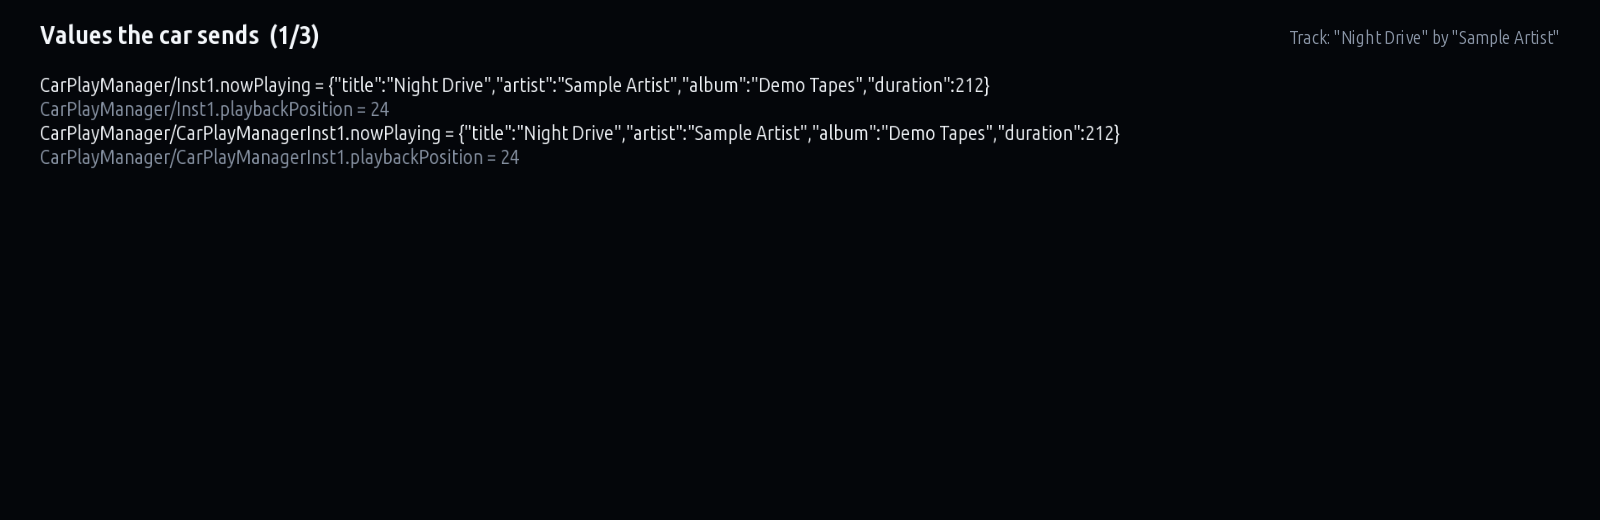
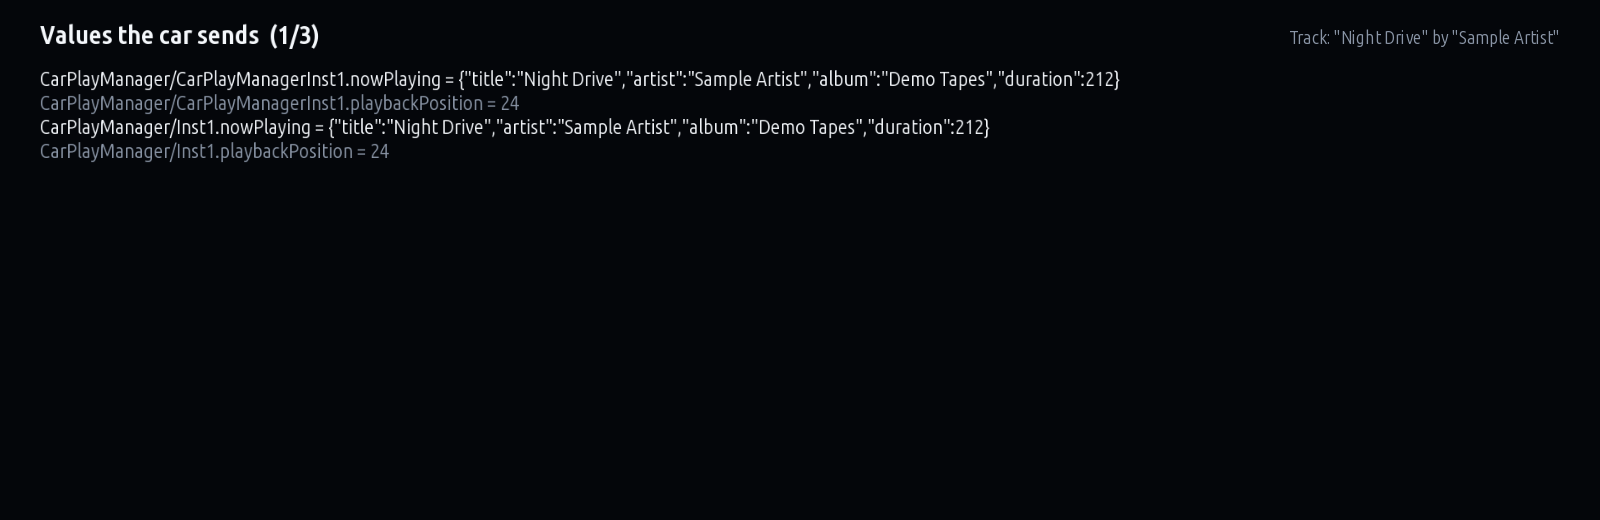
Car Lyrics 0.2.2: Probe in the main screen, every media source, BMW metadata lists
On a car (G22, iDrive 7) the Probe screen and the main screen drew over each other and flashed:
Probe is now a view of the main screen. The probe showed MediaPlayer's AndroidAutoProjected
instance only; up to 12 instances are now watched, CarPlay and Bluetooth first. Metadata sent as
[{ type, value }] lists is read, currentItemTime's elapsed and total give the position and the
duration, and the previous / next items and playlists are never taken for the song playing.

Claude-Session: https://claude.ai/code/session_01G6C1HsKBPawkNXsB1LtfuR

Changed region(s): [[0.0312, 0.1231, 0.7188, 0.3385]]

diff --git a/apps/aref_carlyrics/main.js b/apps/aref_carlyrics/main.js
@@ -21,7 +21,7 @@ const LyricsLib = require('./lyrics');
 const http = require('./http');
 const HW = require('./kit/homewidget');
 
-const VERSION = '0.2.1';
+const VERSION = '0.2.2';
 const HOMEPAGE = 'https://github.com/arefahmad/idrive7-apps';
 const W = 1600, H = 520;
 const IFACES = [
@@ -80,7 +80,6 @@ mgu.run({
             const timing = () => (posVal !== null ? 'from the car' : 'estimated (tap "Song just started" to sync)');
 
             ui.onClick('BTN_SYNC', guard('sync', () => { startAt = Date.now(); posVal = null; posTicks = 0; say('Synced: the song starts now'); }));
-            ui.onClick('BTN_PROBE', guard('probe', () => { ui.open('PROBE'); }));
 
             /* ---------- MAIN: the song and its lyrics ---------- */
             const fit = (cv, s, size, w, opt) => {
@@ -169,7 +168,9 @@ mgu.run({
                 cv.text(a, LX, 230, 38, WHITE, { font: 'bold', literal: true });
                 if (b) cv.text(fit(cv, b, 22, LW), LX, 280, 22, A(WHITE, 0.65), { literal: true });
             }
+            let probe = false;            // the Probe view is on (it shares this screen)
             ctx.loop('MAIN', 10, guard('main', async () => {
+                if (probe) { await drawProbe(); return; }
                 const cv = ctx.canvas(W, H);
                 if (!cur) follow();
                 if (!cur) {
@@ -210,10 +211,32 @@ mgu.run({
                     bar: cur.duration ? position() / cur.duration : null, small: [cur.title, line || cur.artist] };
             }, { fps: 1 });
 
-            /* ---------- PROBE: everything the car reports ---------- */
-            let page = 0;
+            /*
+             * PROBE: everything the car reports, shown in the main screen (a second screen of its own drew over
+             * this one on iDrive 7, and the two flashed). Probe switches between the lyrics and the probe.
+             */
+            let page = 0, vpage = 0;
             const PAGES = ['Values the car sends', 'Media interfaces in the catalog', 'Subscriptions'];
-            ui.onClick('BTN_PAGE', guard('page', () => { page = (page + 1) % PAGES.length; }));
+            const PROBE_BTNS = ['BTN_PAGE', 'BTN_MORE', 'BTN_SAVE'];
+            const shown = (id, on) => {
+                const D = ctx.display;
+                ui.visible(id, on && !(D && D.hmiBarHidden));
+                if (D && D.ownHidden) {
+                    if (on) D.ownHidden.delete(id); else D.ownHidden.add(id);
+                    D._btns = null;
+                    if (D.place && typeof D._place === 'function') D._place();
+                }
+            };
+            const showButtons = () => {
+                PROBE_BTNS.forEach((b) => shown(b, probe));
+                shown('BTN_SYNC', !probe);
+                ui.text('BTN_PROBE', probe ? 'Lyrics' : 'Probe');
+            };
+            ctx.onLayout(guard('layout', () => showButtons()));
+            showButtons();
+            ui.onClick('BTN_PROBE', guard('probe', () => { probe = !probe; page = 0; vpage = 0; showButtons(); }));
+            ui.onClick('BTN_PAGE', guard('page', () => { page = (page + 1) % PAGES.length; vpage = 0; }));
+            ui.onClick('BTN_MORE', guard('more', () => { vpage++; }));
             const report = () => {
                 const L = ['Car Lyrics ' + VERSION + ' probe, ' + new Date().toISOString(), ''];
                 L.push('== track picked: ' + (cur ? JSON.stringify(cur) : 'none'), '');
@@ -237,28 +260,31 @@ mgu.run({
             ui.onClick('BTN_SAVE', guard('save', () => { saveReport(); say('Saved to ' + reportFile, 5000); }));
             setInterval(guard('report', () => { if (np.values().length) saveReport(); }), REPORT_MS);
 
-            ctx.loop('PROBE', 2, guard('probe', async () => {
-                const t = ctx.theme(), cv = ctx.canvas(W, H).clear(t.bg);
+            // the values that say most about what is playing first: metadata, item, title, state, time
+            const RANK = /metadata|item|title|artist|album|state|time|track|song/i;
+            async function drawProbe() {
+                const t = ctx.theme(), cv = ctx.canvas(W, H).clear(t.bg), PER = 17;
                 cv.text(PAGES[page] + '  (' + (page + 1) + '/' + PAGES.length + ')', 40, 44, 26, t.text, { font: 'bold', literal: true });
                 cv.text(cur ? 'Track: "' + cur.title + '" by "' + cur.artist + '"' : 'Track: not found yet', W - 40, 44, 18, t.dim, { align: 'right', literal: true });
-                const rows = [];
+                let rows = [];
                 if (page === 0) {
-                    const v = np.values();
+                    const v = np.values().slice().sort((a, b) => (RANK.test(b.key) ? 1 : 0) - (RANK.test(a.key) ? 1 : 0) || b.changes - a.changes || b.at - a.at);
                     if (!v.length) rows.push('Nothing yet. Play a song on your phone with CarPlay connected.');
-                    v.slice(0, 18).forEach((x) => rows.push(x.key + ' = ' + x.text));
-                    if (v.length > 18) rows.push('... and ' + (v.length - 18) + ' more in carlyrics-probe.txt (Save report)');
+                    rows = rows.concat(v.map((x) => x.key.replace('MediaPlayer/', '') + ' = ' + x.text + (x.changes ? '  (' + x.changes + ' changes)' : '')));
                 } else if (page === 1) {
                     if (catalog.error) rows.push('Catalog not read: ' + catalog.error);
-                    catalog.hits.slice(0, 18).forEach((h) => rows.push(h.iface.replace('de.bmw.infotainment.', '') + ': ' + h.words.join(', ')));
+                    rows = rows.concat(catalog.hits.map((h) => h.iface.replace('de.bmw.infotainment.', '') + ': ' + h.words.join(', ')));
                     if (!catalog.error && !catalog.hits.length) rows.push('No interface in the catalog names a title or an artist.');
                 } else {
-                    np.status().forEach((s) => rows.push(s.iface.split('.').pop() + ' / ' + s.instance + ': ' + (s.available ? 'available' : 'not available') + ', ' + s.fields + ' fields' + (s.error ? ' - ' + s.error : '')));
+                    np.status().forEach((s2) => rows.push(s2.iface.split('.').pop() + ' / ' + s2.instance + ': ' + (s2.available ? 'available' : 'not available') + ', ' + s2.fields + ' fields' + (s2.error ? ' - ' + s2.error : '')));
                     rows.push('', 'Report file: ' + reportFile, 'Online: ' + (net.online() ? 'yes' : 'no (lyrics need the Store\'s internet)'));
                 }
-                rows.forEach((r, k) => cv.text(fit(cv, r, 20, W - 80, { literal: true }), 40, 92 + k * 24, 20, k % 2 ? t.dim : t.text, { literal: true }));
-                if (toast && Date.now() < toast.until) cv.text(toast.text, W / 2, H - 16, 20, t.accent2 || t.text, { align: 'center', literal: true });
-                await ui.image('PROBE_GFX', cv);
-            }));
+                const pages = Math.max(1, Math.ceil(rows.length / PER)), pg = vpage % pages;
+                rows.slice(pg * PER, pg * PER + PER).forEach((r, k) => cv.text(fit(cv, r, 20, W - 80, { literal: true }), 40, 86 + k * 24, 20, k % 2 ? t.dim : t.text, { literal: true }));
+                if (pages > 1) cv.text('Page ' + (pg + 1) + ' of ' + pages + ' (More)', W - 40, H - 14, 16, t.dim, { align: 'right', literal: true });
+                if (toast && Date.now() < toast.until) cv.text(toast.text, 40, H - 14, 16, t.accent2 || t.text, { literal: true });
+                await ui.image('MAIN_GFX', cv);
+            }
 
             /* ---------- start: the catalog (one read), then the subscriptions ---------- */
             catalog = NP.scanCatalog();

diff --git a/apps/aref_carlyrics/car/nowplaying.js b/apps/aref_carlyrics/car/nowplaying.js
@@ -23,7 +23,7 @@ const fs = require('fs');
 
 const CATALOG = '/etc/oap/someip/someip-interfaces.json';
 const MAX_FIELDS = 120;          // per interface instance
-const MAX_INSTANCES = 4;         // per interface
+const MAX_INSTANCES = 12;        // per interface (BMW's MediaPlayer has one per source: USB, Bluetooth, CarPlay...)
 const MAX_DEPTH = 5;             // into a field's struct
 const MAX_LEAVES = 60;           // per field value
 
@@ -33,13 +33,15 @@ const NAME = {
     title: /(title|songname|trackname|song|track)$/i,
     artist: /(artist|artistname|performer|interpret|singer)s?$/i,
     album: /album(name|title)?$/i,
-    duration: /(duration|length|totaltime|playtime_?total|totalduration)$/i,
+    duration: /(duration|length|totaltime|playtime_?total|totalduration|^total)$/i,
     position: /(position|elapsed|elapsedtime|currenttime|playtime|progress)$/i,
 };
 // names that are never the song's title (an album's, a station's, a folder's, an app's or a device's)
 const NOT_TITLE = /(album|artist|station|folder|playlist|device|app|source|service|genre|chapter|menu|window|screen|popup)/i;
 // words that make an interface worth a look in the catalog
 const CATALOG_WORDS = /(title|artist|album|nowplaying|metadata|trackinfo|songinfo|interpret)/i;
+// fields that name titles that are not playing
+const SKIP_FIELD = /^(prev|next|playlist|history|queue|browse|search|list)/i;
 
 function shortName(iface) { return iface.split('.').pop(); }
 
@@ -52,6 +54,9 @@ function instancesOf(cfg, fallback) {
     else if (typeof ins === 'string' && ins !== '*') list = [ins];
     list = list.filter((x) => typeof x === 'string' || typeof x === 'number').map(String).filter((x) => x && x !== '*');
     (fallback || []).forEach((f) => { if (list.indexOf(f) < 0) list.push(f); });
+    // the sources that can carry Apple Music first
+    const rank = (x) => (/carplay|apple|iap|projected/i.test(x) ? 0 : /bluetooth|bt|a2dp/i.test(x) ? 1 : 2);
+    list.sort((a, b) => rank(a) - rank(b));
     return list.slice(0, MAX_INSTANCES);
 }
 
@@ -59,6 +64,28 @@ function instancesOf(cfg, fallback) {
 function fieldsOf(cfg) {
     const f = (cfg && (cfg.fields || cfg.attributes)) || {};
     return (Array.isArray(f) ? f.map((x) => (x && x.name) || x) : Object.keys(f)).filter((x) => typeof x === 'string').slice(0, MAX_FIELDS);
+}
+
+/**
+ * Metadata lists as BMW's MediaPlayer may send them, [{ type: 'TITLE', value: 'x' }, ...], made into
+ * objects ({ TITLE: 'x' }) so the names match like any other field. Anything else is returned unchanged.
+ */
+function normalize(v, depth) {
+    depth = depth || 0;
+    if (!v || typeof v !== 'object' || Buffer.isBuffer(v) || depth > MAX_DEPTH) return v;
+    if (Array.isArray(v)) {
+        const keyOf = (x) => x && typeof x === 'object' && (x.type || x.key || x.name || x.attribute || x.id);
+        const valOf = (x) => (x.value !== undefined ? x.value : x.text !== undefined ? x.text : x.data !== undefined ? x.data : x.stringValue);
+        if (v.length && v.every((x) => typeof keyOf(x) === 'string' && valOf(x) !== undefined)) {
+            const o = {};
+            v.forEach((x) => { const k = keyOf(x); if (o[k] === undefined) o[k] = normalize(valOf(x), depth + 1); });
+            return o;
+        }
+        return v.map((x) => normalize(x, depth + 1));
+    }
+    const o = {};
+    Object.keys(v).forEach((k) => { o[k] = normalize(v[k], depth + 1); });
+    return o;
 }
 
 /** Every leaf (string, number, boolean) of a value: [[path, value]], at most MAX_LEAVES. */
@@ -98,7 +125,7 @@ function posMs(v, durMs) {
  * fieldName counts as the path's start (a field named "currentTitle" that is just a string).
  */
 function trackIn(fieldName, value) {
-    const L = leaves(value, '');
+    const L = leaves(normalize(value), '');
     const r = { title: '', artist: '', album: '', duration: null, position: null, score: 0 };
     L.forEach((e) => {
         const name = lastName(e[0] || fieldName), v = e[1];
@@ -197,6 +224,8 @@ class NowPlaying {
     track() {
         let best = null;
         this.store.forEach((e, key) => {
+            // the previous and next items, playlists and queues name titles too: not what is playing
+            if (SKIP_FIELD.test(e.field)) return;
             const t = trackIn(e.field, e.value);
             if (!t) return;
             // newer values win a tie: the source that is playing changes most
@@ -205,14 +234,24 @@ class NowPlaying {
             }
         });
         if (!best) return null;
+        // a duration in another field of the same interface instance (currentItemTime.total, say)
+        if (!best.duration) {
+            const pre0 = best.from.slice(0, best.from.lastIndexOf('.'));
+            this.store.forEach((e, key) => {
+                if (best.duration || key.indexOf(pre0 + '.') !== 0 || SKIP_FIELD.test(e.field)) return;
+                leaves(normalize(e.value), '').forEach((l) => {
+                    if (!best.duration && typeof l[1] === 'number' && l[1] > 0 && NAME.duration.test(lastName(l[0] || e.field))) best.duration = toMs(l[1]);
+                });
+            });
+        }
         // a position in another field of the same interface instance (a struct of its own, ticking)
         if (best.position === null) {
             const pre = best.from.slice(0, best.from.lastIndexOf('.'));
             this.store.forEach((e, key) => {
-                if (best.position !== null || key.indexOf(pre + '.') !== 0) return;
+                if (best.position !== null || key.indexOf(pre + '.') !== 0 || SKIP_FIELD.test(e.field)) return;
                 if (typeof e.value === 'number' && NAME.position.test(e.field)) best.position = posMs(e.value, best.duration);
                 else if (e.value && typeof e.value === 'object') {
-                    leaves(e.value, '').forEach((l) => {
+                    leaves(normalize(e.value), '').forEach((l) => {
                         if (best.position === null && typeof l[1] === 'number' && NAME.position.test(lastName(l[0] || e.field))) best.position = posMs(l[1], best.duration);
                     });
                 }
@@ -257,4 +296,4 @@ function scanCatalog(file) {
     return { error: '', hits: hits.slice(0, 40), total: Object.keys(all).length };
 }
 
-module.exports = { NowPlaying, scanCatalog, trackIn, leaves, instancesOf, fieldsOf, textOf, posMs };
+module.exports = { NowPlaying, scanCatalog, trackIn, leaves, instancesOf, fieldsOf, textOf, posMs, normalize };

diff --git a/test/carlyrics.test.js b/test/carlyrics.test.js
@@ -88,6 +88,32 @@ test('positions in seconds or ms against the duration', () => {
     assert.strictEqual(NP.trackIn('x', { title: 'A', artist: 'B', duration: 200, position: 30 }).position, 30000);
 });
 
+test('BMW-style metadata lists, item time, and previous/next items skipped', async () => {
+    const t = NP.trackIn('currentItemMetadata', [{ type: 'TITLE', value: 'Real Song' }, { type: 'ARTIST', value: 'Real Artist' }, { type: 'ALBUM', value: 'LP' }]);
+    assert.strictEqual(t.title, 'Real Song');
+    assert.strictEqual(t.artist, 'Real Artist');
+    assert.strictEqual(t.album, 'LP');
+    const signals = {
+        loadConfig: () => ({ instances: ['AndroidAutoProjected', 'CarPlayProjected'], fields: { nextItemMetadata: {}, currentItemMetadata: {}, currentItemTime: {} } }),
+        watch: async (iface, inst, h) => {
+            if (inst === 'CarPlayProjected') {
+                h.nextItemMetadata([{ type: 'TITLE', value: 'Next One' }, { type: 'ARTIST', value: 'Someone' }]);
+                h.currentItemMetadata([{ type: 'TITLE', value: 'Now Song' }, { type: 'ARTIST', value: 'Now Artist' }]);
+                h.currentItemTime({ elapsed: 30, total: 200 });
+            }
+            return { available: true };
+        },
+    };
+    const np = new NP.NowPlaying(signals, { info() {}, warn() {}, error() {} }, [{ iface: 'x.MediaPlayer', instances: [] }]);
+    await np.start();
+    const tr = np.track();
+    np.stop();
+    assert.strictEqual(tr.title, 'Now Song');
+    assert.strictEqual(tr.position, 30000);
+    assert.strictEqual(tr.duration, 200000);
+    assert.deepStrictEqual(NP.instancesOf({ instances: ['Usb1', 'AndroidAutoProjected', 'Bluetooth1', 'CarPlayProjected'] }), ['AndroidAutoProjected', 'CarPlayProjected', 'Bluetooth1', 'Usb1']);
+});
+
 test('LRC parsing and the line at a time', () => {
     const lines = L.parseLrc('[00:01.00]First\n[00:05.50]Second\n[00:10.00]Third');
     assert.strictEqual(lines.length, 3);

diff --git a/tools/screens.js b/tools/screens.js
@@ -203,7 +203,9 @@ async function carLyrics() {
     await h.shot('MAIN', 'lyrics.png');           // the first frame starts the lookup
     await new Promise((r) => setTimeout(r, 50));
     await h.shot('MAIN', 'lyrics.png');
-    await h.shot('PROBE', 'probe.png');
+    h.clicks.BTN_PROBE();
+    await h.shot('MAIN', 'probe.png');
+    h.clicks.BTN_PROBE();
     await h.widget('widget.png');
     delete stubs['./http'];
 }

diff --git a/apps/aref_carlyrics/README.md b/apps/aref_carlyrics/README.md
@@ -3,7 +3,7 @@
 Synced lyrics for whatever the car is playing: Apple Music over CarPlay, Bluetooth or USB. No Spotify
 account and no app on the phone.
 
-Version 0.2.1 · iDrive 7 · package `aref_carlyrics` · [all apps and how to install](../../README.md)
+Version 0.2.2 · iDrive 7 · package `aref_carlyrics` · [all apps and how to install](../../README.md)
 
 > [!WARNING]
 > **Experimental.** Which interface and field carry the CarPlay track on iDrive 7 isn't documented. This
